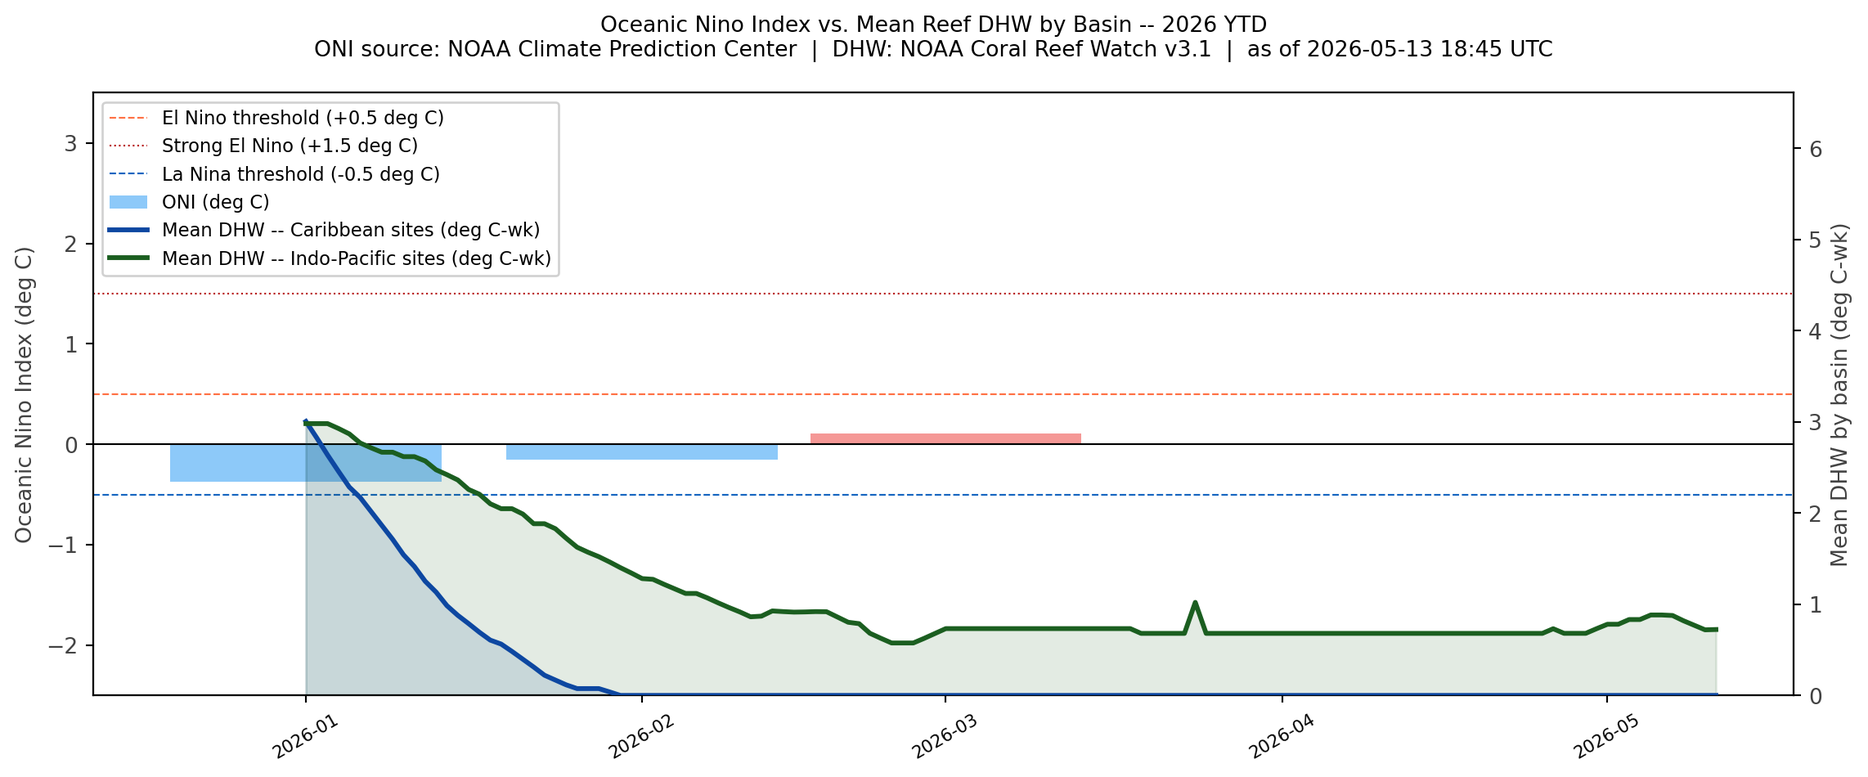
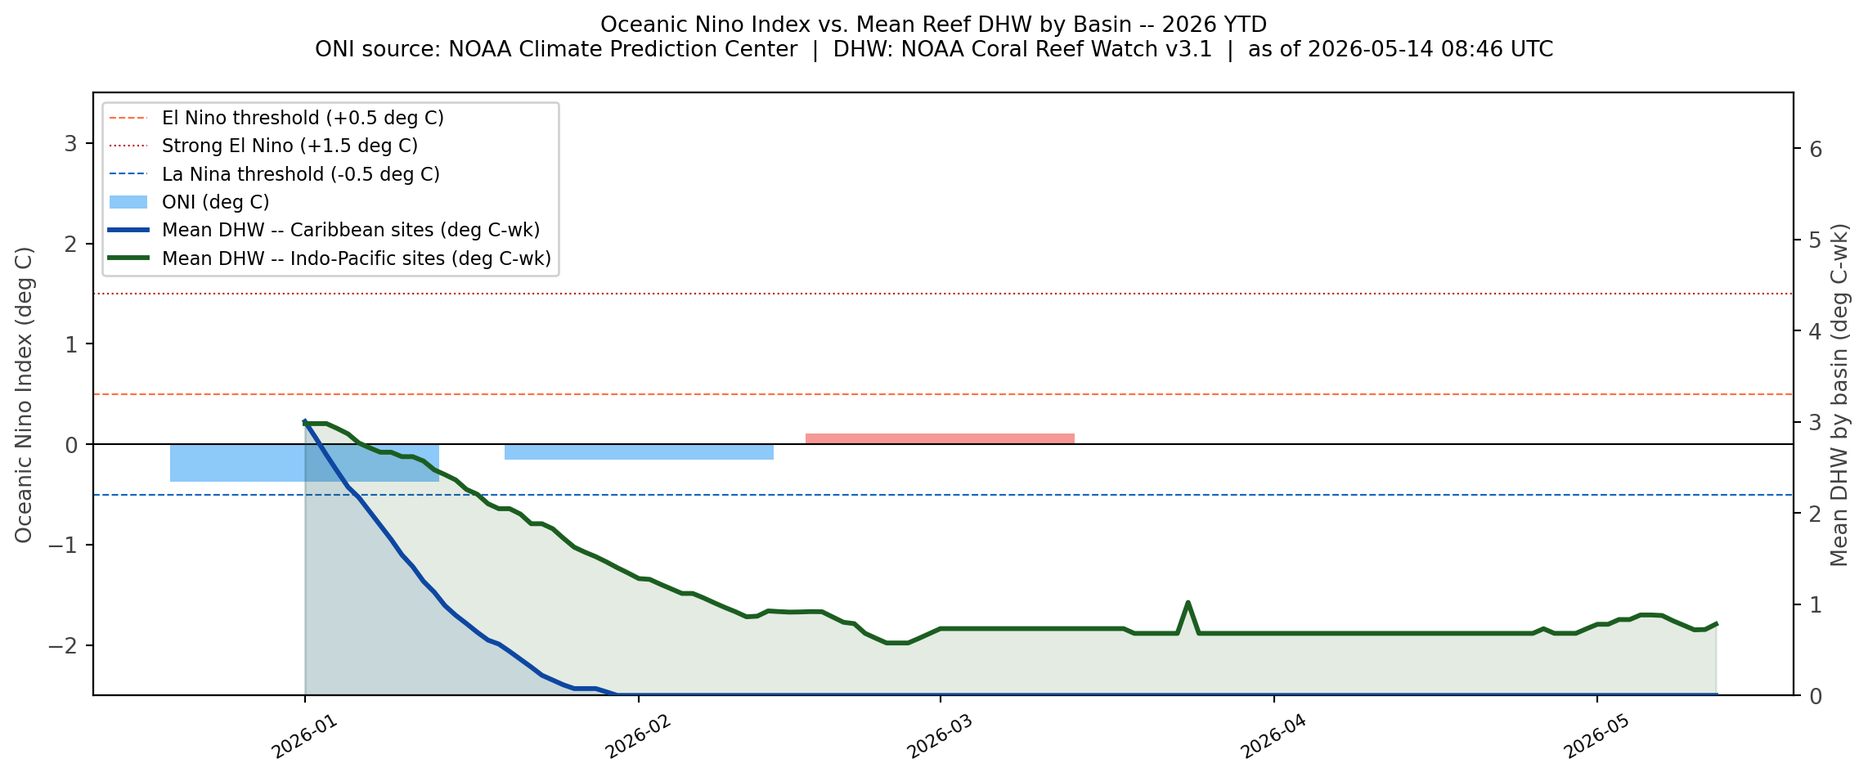
deploy: 9ff700cf95151f88b2bc125e7821a5b8c6edb442

diff --git a/projects/el-nino-watch-2026.html b/projects/el-nino-watch-2026.html
@@ -182,7 +182,7 @@ div.csl-indent {
   <li><a href="#overview" id="toc-overview" class="nav-link active" data-scroll-target="#overview">Overview</a></li>
   <li><a href="#study-sites" id="toc-study-sites" class="nav-link" data-scroll-target="#study-sites">Study sites</a></li>
   <li><a href="#a-note-on-the-data-pipeline" id="toc-a-note-on-the-data-pipeline" class="nav-link" data-scroll-target="#a-note-on-the-data-pipeline">A note on the data pipeline</a></li>
-  <li><a href="#quick-status-2026-05-13-1845-utc" id="toc-quick-status-2026-05-13-1845-utc" class="nav-link" data-scroll-target="#quick-status-2026-05-13-1845-utc">Quick status — 2026-05-13 18:45 UTC</a></li>
+  <li><a href="#quick-status-2026-05-14-0846-utc" id="toc-quick-status-2026-05-14-0846-utc" class="nav-link" data-scroll-target="#quick-status-2026-05-14-0846-utc">Quick status — 2026-05-14 08:46 UTC</a></li>
   <li><a href="#dhw-time-series" id="toc-dhw-time-series" class="nav-link" data-scroll-target="#dhw-time-series">2026 DHW time series</a></li>
   <li><a href="#latest-sst-anomaly-by-site" id="toc-latest-sst-anomaly-by-site" class="nav-link" data-scroll-target="#latest-sst-anomaly-by-site">Latest SST anomaly by site</a></li>
   <li><a href="#el-niño-progression-and-reef-thermal-stress" id="toc-el-niño-progression-and-reef-thermal-stress" class="nav-link" data-scroll-target="#el-niño-progression-and-reef-thermal-stress">El Niño progression and reef thermal stress</a></li>
@@ -230,7 +230,7 @@ div.csl-indent {
     <div>
     <div class="quarto-title-meta-heading">Published</div>
     <div class="quarto-title-meta-contents">
-      <p class="date">May 13, 2026 — 00:00 UTC</p>
+      <p class="date">May 14, 2026 — 00:00 UTC</p>
     </div>
   </div>
   
@@ -242,7 +242,7 @@ div.csl-indent {
 </header>
 
 
-<div id="7277eb75" class="cell" data-execution_count="1">
+<div id="ac366c1f" class="cell" data-execution_count="1">
 <details class="code-fold">
 <summary>Show code</summary>
 <div class="code-copy-outer-scaffold"><div class="sourceCode cell-code" id="cb1"><pre class="sourceCode python code-with-copy"><code class="sourceCode python"><span id="cb1-1"><a href="#cb1-1" aria-hidden="true" tabindex="-1"></a><span class="co"># =============================================================================</span></span>
@@ -583,16 +583,16 @@ YYYY MM DD SST_MIN SST_MAX SST@90th_HS SSTA@90th_HS 90th_HS&gt;0 DHW_from_90th_H
 <p>This parser is carried over directly from the first project with two small changes: the cache now stores the raw <code>.txt</code> file rather than a parsed CSV (preserving the original header and MMM value across sessions), and the <code>sst_anomaly</code> column alias from the bleaching project is shortened to <code>sst_anom</code> here for consistency with the status table and plot code.</p>
 <p>Output directories are anchored to the project root rather than using bare relative paths, so the cache and figure outputs from this project stay isolated from the bleaching project even if both kernels are running simultaneously.</p>
 <hr>
-<div id="e00b4437" class="cell" data-execution_count="2">
+<div id="efd9b8bb" class="cell" data-execution_count="2">
 <details class="code-fold">
 <summary>Show code</summary>
 <div class="code-copy-outer-scaffold"><div class="sourceCode cell-code" id="cb3"><pre class="sourceCode python code-with-copy"><code class="sourceCode python"><span id="cb3-1"><a href="#cb3-1" aria-hidden="true" tabindex="-1"></a>fetch_stamp <span class="op">=</span> datetime.now(timezone.utc).strftime(<span class="st">"%Y-%m-</span><span class="sc">%d</span><span class="st"> %H:%M UTC"</span>)</span></code></pre></div><button title="Copy to Clipboard" class="code-copy-button"><i class="bi"></i></button></div>
 </details>
 </div>
 </section>
-<section id="quick-status-2026-05-13-1845-utc" class="level2">
-<h2 class="anchored" data-anchor-id="quick-status-2026-05-13-1845-utc">Quick status — 2026-05-13 18:45 UTC</h2>
-<div id="a12656c3" class="cell" data-execution_count="3">
+<section id="quick-status-2026-05-14-0846-utc" class="level2">
+<h2 class="anchored" data-anchor-id="quick-status-2026-05-14-0846-utc">Quick status — 2026-05-14 08:46 UTC</h2>
+<div id="bbbc3c2c" class="cell" data-execution_count="3">
 <details class="code-fold">
 <summary>Show code</summary>
 <div class="code-copy-outer-scaffold"><div class="sourceCode cell-code" id="cb4"><pre class="sourceCode python code-with-copy"><code class="sourceCode python"><span id="cb4-1"><a href="#cb4-1" aria-hidden="true" tabindex="-1"></a><span class="co"># =============================================================================</span></span>
@@ -613,7 +613,7 @@ YYYY MM DD SST_MIN SST_MAX SST@90th_HS SSTA@90th_HS 90th_HS&gt;0 DHW_from_90th_H
 <span id="cb4-16"><a href="#cb4-16" aria-hidden="true" tabindex="-1"></a>        site_errors.append(name)</span></code></pre></div><button title="Copy to Clipboard" class="code-copy-button"><i class="bi"></i></button></div>
 </details>
 </div>
-<div id="ee0413a7" class="cell" data-execution_count="4">
+<div id="4ca3aef4" class="cell" data-execution_count="4">
 <details class="code-fold">
 <summary>Show code</summary>
 <div class="code-copy-outer-scaffold"><div class="sourceCode cell-code" id="cb5"><pre class="sourceCode python code-with-copy"><code class="sourceCode python"><span id="cb5-1"><a href="#cb5-1" aria-hidden="true" tabindex="-1"></a><span class="co"># =============================================================================</span></span>
@@ -671,13 +671,13 @@ YYYY MM DD SST_MIN SST_MAX SST@90th_HS SSTA@90th_HS 90th_HS&gt;0 DHW_from_90th_H
 </details>
 <div class="cell-output cell-output-display" data-execution_count="4">
 <style type="text/css">
-#T_ab792_row0_col0, #T_ab792_row1_col0, #T_ab792_row2_col0, #T_ab792_row3_col0, #T_ab792_row4_col0, #T_ab792_row5_col0, #T_ab792_row6_col0 {
+#T_c6349_row0_col0, #T_c6349_row1_col0, #T_c6349_row2_col0, #T_c6349_row3_col0, #T_c6349_row4_col0, #T_c6349_row5_col0, #T_c6349_row6_col0 {
   font-weight: bold;
 }
-#T_ab792_row0_col1, #T_ab792_row0_col2, #T_ab792_row0_col3, #T_ab792_row0_col4, #T_ab792_row0_col5, #T_ab792_row1_col1, #T_ab792_row1_col2, #T_ab792_row1_col3, #T_ab792_row1_col4, #T_ab792_row1_col5, #T_ab792_row2_col1, #T_ab792_row2_col2, #T_ab792_row2_col3, #T_ab792_row2_col4, #T_ab792_row2_col5, #T_ab792_row3_col1, #T_ab792_row3_col2, #T_ab792_row3_col3, #T_ab792_row3_col4, #T_ab792_row3_col5, #T_ab792_row4_col1, #T_ab792_row4_col2, #T_ab792_row4_col3, #T_ab792_row4_col4, #T_ab792_row4_col5, #T_ab792_row5_col1, #T_ab792_row5_col2, #T_ab792_row5_col3, #T_ab792_row5_col4, #T_ab792_row5_col5, #T_ab792_row6_col1, #T_ab792_row6_col2, #T_ab792_row6_col3, #T_ab792_row6_col4, #T_ab792_row6_col5 {
+#T_c6349_row0_col1, #T_c6349_row0_col2, #T_c6349_row0_col3, #T_c6349_row0_col4, #T_c6349_row0_col5, #T_c6349_row1_col1, #T_c6349_row1_col2, #T_c6349_row1_col3, #T_c6349_row1_col4, #T_c6349_row1_col5, #T_c6349_row2_col1, #T_c6349_row2_col2, #T_c6349_row2_col3, #T_c6349_row2_col4, #T_c6349_row2_col5, #T_c6349_row3_col1, #T_c6349_row3_col2, #T_c6349_row3_col3, #T_c6349_row3_col4, #T_c6349_row3_col5, #T_c6349_row4_col1, #T_c6349_row4_col2, #T_c6349_row4_col3, #T_c6349_row4_col4, #T_c6349_row4_col5, #T_c6349_row5_col1, #T_c6349_row5_col2, #T_c6349_row5_col3, #T_c6349_row5_col4, #T_c6349_row5_col5, #T_c6349_row6_col1, #T_c6349_row6_col2, #T_c6349_row6_col3, #T_c6349_row6_col4, #T_c6349_row6_col5 {
   text-align: center;
 }
-#T_ab792_row0_col6, #T_ab792_row1_col6, #T_ab792_row2_col6, #T_ab792_row3_col6, #T_ab792_row4_col6, #T_ab792_row5_col6, #T_ab792_row6_col6 {
+#T_c6349_row0_col6, #T_c6349_row1_col6, #T_c6349_row2_col6, #T_c6349_row3_col6, #T_c6349_row4_col6, #T_c6349_row5_col6, #T_c6349_row6_col6 {
   background-color: #FFF9C4;
   color: #F57F17;
   text-align: center;
@@ -685,81 +685,81 @@ YYYY MM DD SST_MIN SST_MAX SST@90th_HS SSTA@90th_HS 90th_HS&gt;0 DHW_from_90th_H
 }
 </style>
 
-<table id="T_ab792" class="caption-top table table-sm table-striped small">
+<table id="T_c6349" class="caption-top table table-sm table-striped small">
 <thead>
 <tr class="header">
-<th id="T_ab792_level0_col0" class="col_heading level0 col0" data-quarto-table-cell-role="th">Site</th>
-<th id="T_ab792_level0_col1" class="col_heading level0 col1" data-quarto-table-cell-role="th">Ocean basin</th>
-<th id="T_ab792_level0_col2" class="col_heading level0 col2" data-quarto-table-cell-role="th">Latest date</th>
-<th id="T_ab792_level0_col3" class="col_heading level0 col3" data-quarto-table-cell-role="th">SST (°C)</th>
-<th id="T_ab792_level0_col4" class="col_heading level0 col4" data-quarto-table-cell-role="th">SST anomaly (°C)</th>
-<th id="T_ab792_level0_col5" class="col_heading level0 col5" data-quarto-table-cell-role="th">DHW (°C-wk)</th>
-<th id="T_ab792_level0_col6" class="col_heading level0 col6" data-quarto-table-cell-role="th">Alert level</th>
+<th id="T_c6349_level0_col0" class="col_heading level0 col0" data-quarto-table-cell-role="th">Site</th>
+<th id="T_c6349_level0_col1" class="col_heading level0 col1" data-quarto-table-cell-role="th">Ocean basin</th>
+<th id="T_c6349_level0_col2" class="col_heading level0 col2" data-quarto-table-cell-role="th">Latest date</th>
+<th id="T_c6349_level0_col3" class="col_heading level0 col3" data-quarto-table-cell-role="th">SST (°C)</th>
+<th id="T_c6349_level0_col4" class="col_heading level0 col4" data-quarto-table-cell-role="th">SST anomaly (°C)</th>
+<th id="T_c6349_level0_col5" class="col_heading level0 col5" data-quarto-table-cell-role="th">DHW (°C-wk)</th>
+<th id="T_c6349_level0_col6" class="col_heading level0 col6" data-quarto-table-cell-role="th">Alert level</th>
 </tr>
 </thead>
 <tbody>
 <tr class="odd">
-<td id="T_ab792_row0_col0" class="data row0 col0">Florida Keys</td>
-<td id="T_ab792_row0_col1" class="data row0 col1">Caribbean/Atlantic</td>
-<td id="T_ab792_row0_col2" class="data row0 col2">2026-05-11</td>
-<td id="T_ab792_row0_col3" class="data row0 col3">29.54</td>
-<td id="T_ab792_row0_col4" class="data row0 col4">+3.11</td>
-<td id="T_ab792_row0_col5" class="data row0 col5">0.0</td>
-<td id="T_ab792_row0_col6" class="data row0 col6">Bleaching Watch</td>
+<td id="T_c6349_row0_col0" class="data row0 col0">Florida Keys</td>
+<td id="T_c6349_row0_col1" class="data row0 col1">Caribbean/Atlantic</td>
+<td id="T_c6349_row0_col2" class="data row0 col2">2026-05-12</td>
+<td id="T_c6349_row0_col3" class="data row0 col3">29.60</td>
+<td id="T_c6349_row0_col4" class="data row0 col4">+3.27</td>
+<td id="T_c6349_row0_col5" class="data row0 col5">0.0</td>
+<td id="T_c6349_row0_col6" class="data row0 col6">Bleaching Watch</td>
 </tr>
 <tr class="even">
-<td id="T_ab792_row1_col0" class="data row1 col0">Cayman Islands</td>
-<td id="T_ab792_row1_col1" class="data row1 col1">Caribbean</td>
-<td id="T_ab792_row1_col2" class="data row1 col2">2026-05-11</td>
-<td id="T_ab792_row1_col3" class="data row1 col3">28.81</td>
-<td id="T_ab792_row1_col4" class="data row1 col4">+1.20</td>
-<td id="T_ab792_row1_col5" class="data row1 col5">0.0</td>
-<td id="T_ab792_row1_col6" class="data row1 col6">Bleaching Watch</td>
+<td id="T_c6349_row1_col0" class="data row1 col0">Cayman Islands</td>
+<td id="T_c6349_row1_col1" class="data row1 col1">Caribbean</td>
+<td id="T_c6349_row1_col2" class="data row1 col2">2026-05-12</td>
+<td id="T_c6349_row1_col3" class="data row1 col3">29.02</td>
+<td id="T_c6349_row1_col4" class="data row1 col4">+1.39</td>
+<td id="T_c6349_row1_col5" class="data row1 col5">0.0</td>
+<td id="T_c6349_row1_col6" class="data row1 col6">Bleaching Watch</td>
 </tr>
 <tr class="odd">
-<td id="T_ab792_row2_col0" class="data row2 col0">Honduras (Bay Islands)</td>
-<td id="T_ab792_row2_col1" class="data row2 col1">Caribbean</td>
-<td id="T_ab792_row2_col2" class="data row2 col2">2026-05-11</td>
-<td id="T_ab792_row2_col3" class="data row2 col3">29.27</td>
-<td id="T_ab792_row2_col4" class="data row2 col4">+1.42</td>
-<td id="T_ab792_row2_col5" class="data row2 col5">0.0</td>
-<td id="T_ab792_row2_col6" class="data row2 col6">Bleaching Watch</td>
+<td id="T_c6349_row2_col0" class="data row2 col0">Honduras (Bay Islands)</td>
+<td id="T_c6349_row2_col1" class="data row2 col1">Caribbean</td>
+<td id="T_c6349_row2_col2" class="data row2 col2">2026-05-12</td>
+<td id="T_c6349_row2_col3" class="data row2 col3">29.11</td>
+<td id="T_c6349_row2_col4" class="data row2 col4">+1.24</td>
+<td id="T_c6349_row2_col5" class="data row2 col5">0.0</td>
+<td id="T_c6349_row2_col6" class="data row2 col6">Bleaching Watch</td>
 </tr>
 <tr class="even">
-<td id="T_ab792_row3_col0" class="data row3 col0">ABC Islands (Bonaire)</td>
-<td id="T_ab792_row3_col1" class="data row3 col1">Caribbean</td>
-<td id="T_ab792_row3_col2" class="data row3 col2">2026-05-11</td>
-<td id="T_ab792_row3_col3" class="data row3 col3">27.45</td>
-<td id="T_ab792_row3_col4" class="data row3 col4">+1.00</td>
-<td id="T_ab792_row3_col5" class="data row3 col5">0.0</td>
-<td id="T_ab792_row3_col6" class="data row3 col6">Bleaching Watch</td>
+<td id="T_c6349_row3_col0" class="data row3 col0">ABC Islands (Bonaire)</td>
+<td id="T_c6349_row3_col1" class="data row3 col1">Caribbean</td>
+<td id="T_c6349_row3_col2" class="data row3 col2">2026-05-12</td>
+<td id="T_c6349_row3_col3" class="data row3 col3">27.46</td>
+<td id="T_c6349_row3_col4" class="data row3 col4">+0.94</td>
+<td id="T_c6349_row3_col5" class="data row3 col5">0.0</td>
+<td id="T_c6349_row3_col6" class="data row3 col6">Bleaching Watch</td>
 </tr>
 <tr class="odd">
-<td id="T_ab792_row4_col0" class="data row4 col0">Great Barrier Reef (Central)</td>
-<td id="T_ab792_row4_col1" class="data row4 col1">Indo-Pacific</td>
-<td id="T_ab792_row4_col2" class="data row4 col2">2026-05-11</td>
-<td id="T_ab792_row4_col3" class="data row4 col3">25.88</td>
-<td id="T_ab792_row4_col4" class="data row4 col4">+0.56</td>
-<td id="T_ab792_row4_col5" class="data row4 col5">1.1</td>
-<td id="T_ab792_row4_col6" class="data row4 col6">Bleaching Watch</td>
+<td id="T_c6349_row4_col0" class="data row4 col0">Great Barrier Reef (Central)</td>
+<td id="T_c6349_row4_col1" class="data row4 col1">Indo-Pacific</td>
+<td id="T_c6349_row4_col2" class="data row4 col2">2026-05-12</td>
+<td id="T_c6349_row4_col3" class="data row4 col3">25.78</td>
+<td id="T_c6349_row4_col4" class="data row4 col4">+0.40</td>
+<td id="T_c6349_row4_col5" class="data row4 col5">0.9</td>
+<td id="T_c6349_row4_col6" class="data row4 col6">Bleaching Watch</td>
 </tr>
 <tr class="even">
-<td id="T_ab792_row5_col0" class="data row5 col0">Palau</td>
-<td id="T_ab792_row5_col1" class="data row5 col1">Indo-Pacific</td>
-<td id="T_ab792_row5_col2" class="data row5 col2">2026-05-11</td>
-<td id="T_ab792_row5_col3" class="data row5 col3">30.12</td>
-<td id="T_ab792_row5_col4" class="data row5 col4">+0.97</td>
-<td id="T_ab792_row5_col5" class="data row5 col5">0.0</td>
-<td id="T_ab792_row5_col6" class="data row5 col6">Bleaching Watch</td>
+<td id="T_c6349_row5_col0" class="data row5 col0">Palau</td>
+<td id="T_c6349_row5_col1" class="data row5 col1">Indo-Pacific</td>
+<td id="T_c6349_row5_col2" class="data row5 col2">2026-05-12</td>
+<td id="T_c6349_row5_col3" class="data row5 col3">30.26</td>
+<td id="T_c6349_row5_col4" class="data row5 col4">+1.18</td>
+<td id="T_c6349_row5_col5" class="data row5 col5">0.2</td>
+<td id="T_c6349_row5_col6" class="data row5 col6">Bleaching Watch</td>
 </tr>
 <tr class="odd">
-<td id="T_ab792_row6_col0" class="data row6 col0">West Papua (Raja Ampat)</td>
-<td id="T_ab792_row6_col1" class="data row6 col1">Indo-Pacific</td>
-<td id="T_ab792_row6_col2" class="data row6 col2">2026-05-11</td>
-<td id="T_ab792_row6_col3" class="data row6 col3">30.48</td>
-<td id="T_ab792_row6_col4" class="data row6 col4">+1.42</td>
-<td id="T_ab792_row6_col5" class="data row6 col5">1.1</td>
-<td id="T_ab792_row6_col6" class="data row6 col6">Bleaching Watch</td>
+<td id="T_c6349_row6_col0" class="data row6 col0">West Papua (Raja Ampat)</td>
+<td id="T_c6349_row6_col1" class="data row6 col1">Indo-Pacific</td>
+<td id="T_c6349_row6_col2" class="data row6 col2">2026-05-12</td>
+<td id="T_c6349_row6_col3" class="data row6 col3">30.84</td>
+<td id="T_c6349_row6_col4" class="data row6 col4">+1.71</td>
+<td id="T_c6349_row6_col5" class="data row6 col5">1.3</td>
+<td id="T_c6349_row6_col6" class="data row6 col6">Bleaching Watch</td>
 </tr>
 </tbody>
 </table>
@@ -770,7 +770,7 @@ YYYY MM DD SST_MIN SST_MAX SST@90th_HS SSTA@90th_HS 90th_HS&gt;0 DHW_from_90th_H
 </section>
 <section id="dhw-time-series" class="level2">
 <h2 class="anchored" data-anchor-id="dhw-time-series">2026 DHW time series</h2>
-<div id="37b4f71f" class="cell" data-execution_count="5">
+<div id="aab9d6c7" class="cell" data-execution_count="5">
 <details class="code-fold">
 <summary>Show code</summary>
 <div class="code-copy-outer-scaffold"><div class="sourceCode cell-code" id="cb6"><pre class="sourceCode python code-with-copy"><code class="sourceCode python"><span id="cb6-1"><a href="#cb6-1" aria-hidden="true" tabindex="-1"></a><span class="co"># =============================================================================</span></span>
@@ -856,7 +856,7 @@ YYYY MM DD SST_MIN SST_MAX SST@90th_HS SSTA@90th_HS 90th_HS&gt;0 DHW_from_90th_H
 </section>
 <section id="latest-sst-anomaly-by-site" class="level2">
 <h2 class="anchored" data-anchor-id="latest-sst-anomaly-by-site">Latest SST anomaly by site</h2>
-<div id="ba0e42a6" class="cell" data-execution_count="6">
+<div id="3e8852e1" class="cell" data-execution_count="6">
 <details class="code-fold">
 <summary>Show code</summary>
 <div class="code-copy-outer-scaffold"><div class="sourceCode cell-code" id="cb7"><pre class="sourceCode python code-with-copy"><code class="sourceCode python"><span id="cb7-1"><a href="#cb7-1" aria-hidden="true" tabindex="-1"></a><span class="co"># =============================================================================</span></span>
@@ -933,7 +933,7 @@ YYYY MM DD SST_MIN SST_MAX SST@90th_HS SSTA@90th_HS 90th_HS&gt;0 DHW_from_90th_H
 <p>This came up at dinner. She’s right. This is a monitoring dashboard, not a causal study, and the chart below should be read as a visual sanity check against a known climate driver — not as evidence of a causal relationship. A rigorous treatment is on the list for a future version of this project.</p>
 <p>One more honest note: I started this project because I dive these reefs and care about what happens to them. The Florida Keys anomaly, West Papua already carrying DHW, all seven sites at Bleaching Watch before summer even starts in the Northern Hemisphere — I know what that pattern looked like in 2023 and 2016. I’m prepared for some serious heartbreak this summer. I hope I’m wrong.</p>
 <p>One data note worth flagging: the ONI is published with a lag of one to two months by NOAA’s Climate Prediction Center. The most recent bar in the chart below may not reflect current conditions. For the most current ENSO status, NOAA CPC publishes weekly updates at <a href="https://www.cpc.ncep.noaa.gov/products/analysis_monitoring/enso_advisory/index.shtml" class="uri">https://www.cpc.ncep.noaa.gov/products/analysis_monitoring/enso_advisory/index.shtml</a>. This lag also explains why the ONI bars may end earlier than the DHW lines — the CRW v3.1 Virtual Station data is updated daily, making it considerably more current than the ONI’s monthly publication schedule.</p>
-<div id="3b5f2e71" class="cell" data-execution_count="7">
+<div id="bf4e4c0a" class="cell" data-execution_count="7">
 <details class="code-fold">
 <summary>Show code</summary>
 <div class="code-copy-outer-scaffold"><div class="sourceCode cell-code" id="cb8"><pre class="sourceCode python code-with-copy"><code class="sourceCode python"><span id="cb8-1"><a href="#cb8-1" aria-hidden="true" tabindex="-1"></a><span class="co"># =============================================================================</span></span>
@@ -1120,7 +1120,7 @@ YYYY MM DD SST_MIN SST_MAX SST@90th_HS SSTA@90th_HS 90th_HS&gt;0 DHW_from_90th_H
 <div id="refs" role="list">
 
 </div>
-<p><em>Page last rendered: 2026-05-13 18:45 UTC. Data fetched live from NOAA CRW — values update with each site deployment. This page is part of a portfolio project at <a href="https://velezf.github.io">velezf.github.io</a>; it is not an official NOAA product.</em></p>
+<p><em>Page last rendered: 2026-05-14 08:46 UTC. Data fetched live from NOAA CRW — values update with each site deployment. This page is part of a portfolio project at <a href="https://velezf.github.io">velezf.github.io</a>; it is not an official NOAA product.</em></p>
 
 
 <!-- -->
@@ -1131,13 +1131,13 @@ YYYY MM DD SST_MIN SST_MAX SST@90th_HS SSTA@90th_HS 90th_HS&gt;0 DHW_from_90th_H
   author = {Velez, Frank},
   title = {2026 {Super} {El} {Niño} {Watch:} {Live} {Thermal} {Stress}
     {Monitoring}},
-  date = {2026-05-13},
+  date = {2026-05-14},
   url = {https://velezf.github.io/projects/el-nino-watch-2026},
   langid = {en}
 }
 </code><button title="Copy to Clipboard" class="code-copy-button"><i class="bi"></i></button></pre><div class="quarto-appendix-secondary-label">For attribution, please cite this work as:</div><div id="ref-velez2026" class="csl-entry quarto-appendix-citeas" role="listitem">
 Velez, Frank. 2026. <span>“2026 Super El Niño Watch: Live Thermal Stress
-Monitoring.”</span> May 13. <a href="https://velezf.github.io/projects/el-nino-watch-2026">https://velezf.github.io/projects/el-nino-watch-2026</a>.
+Monitoring.”</span> May 14. <a href="https://velezf.github.io/projects/el-nino-watch-2026">https://velezf.github.io/projects/el-nino-watch-2026</a>.
 </div></div></section></div></main> <!-- /main -->
 <script id="quarto-html-after-body" type="application/javascript">
   window.document.addEventListener("DOMContentLoaded", function (event) {

diff --git a/projects.html b/projects.html
@@ -243,7 +243,7 @@ window.Quarto = {
 
 <div class="quarto-listing quarto-listing-container-grid" id="listing-listing">
 <div class="list grid quarto-listing-cols-3">
[2 lines of base64/hex data omitted]
 <a href="./projects/el-nino-watch-2026.html" class="quarto-grid-link">
 <div class="quarto-grid-item card h-100 card-left">
 <p class="card-img-top">
@@ -273,13 +273,13 @@ window.Quarto = {
 </div>
 <div class="card-attribution card-text-small end">
 <div class="listing-date">
-May 13, 2026
+May 14, 2026
 </div>
 </div>
 </div>
 </div></a>
 </div>
[2 lines of base64/hex data omitted]
 <a href="./projects/bleaching-risk-notebook.html" class="quarto-grid-link">
 <div class="quarto-grid-item card h-100 card-left">
 <p class="card-img-top">
@@ -313,7 +313,7 @@ May 12, 2026
 </div>
 </div></a>
 </div>
[2 lines of base64/hex data omitted]
 <a href="./projects/subaru-audio-tuning.html" class="quarto-grid-link">
 <div class="quarto-grid-item card h-100 card-left">
 <p class="card-img-top">
@@ -349,7 +349,7 @@ May 7, 2026
 </div>
 </div></a>
 </div>
[2 lines of base64/hex data omitted]
 <a href="./projects/lora-radiorocket.html" class="quarto-grid-link">
 <div class="quarto-grid-item card h-100 card-left">
 <p class="card-img-top">
@@ -385,7 +385,7 @@ May 9, 2025
 </div>
 </div></a>
 </div>
-<div class="g-col-1" data-index="4" data-categories="Y3ljbGluZyUyQ2FuYWx5dGljcyUyQ3Zpc3VhbGl6YXRpb24lMkNweXRob24=" data-listing-date-sort="1746057600000" data-listing-file-modified-sort="1778697849910" data-listing-date-modified-sort="NaN" data-listing-reading-time-sort="1" data-listing-word-count-sort="117">
+<div class="g-col-1" data-index="4" data-categories="Y3ljbGluZyUyQ2FuYWx5dGljcyUyQ3Zpc3VhbGl6YXRpb24lMkNweXRob24=" data-listing-date-sort="1746057600000" data-listing-file-modified-sort="1778748362964" data-listing-date-modified-sort="NaN" data-listing-reading-time-sort="1" data-listing-word-count-sort="117">
 <a href="./projects/freezingsaddles.html" class="quarto-grid-link">
 <div class="quarto-grid-item card h-100 card-left">
 <p class="card-img-top">
@@ -417,7 +417,7 @@ May 1, 2025
 </div>
 </div></a>
 </div>
[2 lines of base64/hex data omitted]
 <a href="./projects/benthic-habitat-map.html" class="quarto-grid-link">
 <div class="quarto-grid-item card h-100 card-left">
 <p class="card-img-top">
@@ -449,7 +449,7 @@ Mar 1, 2025
 </div>
 </div></a>
 </div>
[2 lines of base64/hex data omitted]
 <a href="./projects/reef-sfm-workflow.html" class="quarto-grid-link">
 <div class="quarto-grid-item card h-100 card-left">
 <p class="card-img-top">
@@ -481,7 +481,7 @@ Feb 1, 2025
 </div>
 </div></a>
 </div>
-<div class="g-col-1" data-index="7" data-categories="bWFyaW5lJTIwc2NpZW5jZSUyQ3Bob3RvZ3JhbW1ldHJ5JTJDM0QlMkNHSVM=" data-listing-date-sort="1735689600000" data-listing-file-modified-sort="1778697849910" data-listing-date-modified-sort="NaN" data-listing-reading-time-sort="2" data-listing-word-count-sort="263">
+<div class="g-col-1" data-index="7" data-categories="bWFyaW5lJTIwc2NpZW5jZSUyQ3Bob3RvZ3JhbW1ldHJ5JTJDM0QlMkNHSVM=" data-listing-date-sort="1735689600000" data-listing-file-modified-sort="1778748362964" data-listing-date-modified-sort="NaN" data-listing-reading-time-sort="2" data-listing-word-count-sort="263">
 <a href="./projects/sfm-marine.html" class="quarto-grid-link">
 <div class="quarto-grid-item card h-100 card-left">
 <p class="card-img-top">
